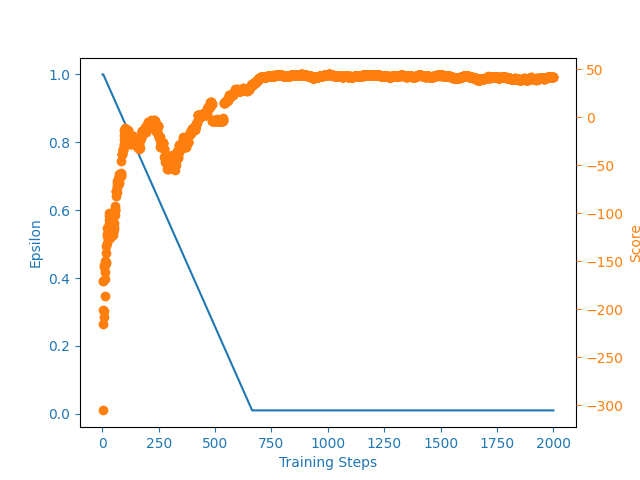
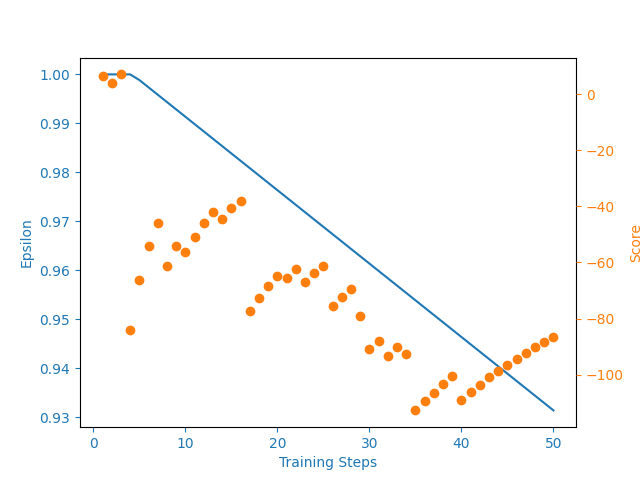
reorganize scripts

diff --git a/rl/main_gov.py b/rl/main_gov.py
@@ -7,11 +7,13 @@ from market_env.constants import FIGURES_PATH
 from market_env.env import DefiEnv, PlfPool, PriceDict, User
 from rl.dqn_gov import Agent
 from rl.rl_env import ProtocolEnv
-from rl.utils import plot_learning_curve
+from run_results.plotting import plot_learning_curve
 
 
 def training(
+    initial_collateral_factor: float = 0.8,
     max_steps: int = 30,
+    gamma: float = 0.99,
     n_games: int = 2_000,
     epsilon: float = 1,
     eps_end: float = 0.01,
@@ -27,14 +29,14 @@ def training(
         initiator=Alice,
         initial_starting_funds=8_000,
         asset_name="tkn",
-        collateral_factor=0.8,
+        collateral_factor=initial_collateral_factor,
     )
 
     env = ProtocolEnv(defi_env)
 
     # initialize agent
     agent = Agent(
-        gamma=0.99,
+        gamma=gamma,
         epsilon=epsilon,
         batch_size=bath_size,
         n_actions=env.action_space.n,
@@ -67,20 +69,18 @@ def training(
         avg_score = np.mean(scores[-30:])
         if i % 10 == 0:
             logging.info(
-                f"logging.debug {i} score {score:.2f} average score {avg_score:.2f} epsilon {agent.epsilon:.2f} collateral factor {next(iter(defi_env.plf_pools.values())).collateral_factor:.2f}"
+                f"{i} score {score:.2f} average score {avg_score:.2f} epsilon {agent.epsilon:.2f} collateral factor {next(iter(defi_env.plf_pools.values())).collateral_factor:.2f}"
             )
         collateral_factors.append(
             next(iter(defi_env.plf_pools.values())).collateral_factor
         )
     return scores, eps_history, collateral_factors
 
-    # torch.save(agent.q_eval.state_dict(), "models/dqn_gov.pth")
-
 
 if __name__ == "__main__":
     # show logging level at info
     logging.basicConfig(level=logging.INFO)
-    N_GAMES = 2_000
+    N_GAMES = 50
     scores, eps_history, collateral_factors = training(n_games=N_GAMES)
     x = [i + 1 for i in range(N_GAMES)]
     filename = path.join(FIGURES_PATH, "defi.png")

diff --git a/rl/utils.py b/rl/utils.py
@@ -1,52 +1,8 @@
 import collections
+
 import cv2
-import numpy as np
-import matplotlib.pyplot as plt
 import gym
-
-
-def plotLearning(scores, filename, x=None, window=5):
-    # for policy gradient algorithms
-    N = len(scores)
-    running_avg = np.empty(N)
-    for t in range(N):
-        running_avg[t] = np.mean(scores[max(0, t - window) : (t + 1)])
-    if x is None:
-        x = [i + 1 for i in range(N)]
-    plt.ylabel("Score")
-    plt.xlabel("Game")
-    plt.plot(x, running_avg)
-    plt.savefig(filename)
-
-
-def plot_learning_curve(x, scores, epsilons, filename, lines=None):
-    fig = plt.figure()
-    ax = fig.add_subplot(111, label="1")
-    ax2 = fig.add_subplot(111, label="2", frame_on=False)
-
-    ax.plot(x, epsilons, color="C0")
-    ax.set_xlabel("Training Steps", color="C0")
-    ax.set_ylabel("Epsilon", color="C0")
-    ax.tick_params(axis="x", colors="C0")
-    ax.tick_params(axis="y", colors="C0")
-
-    N = len(scores)
-    running_avg = np.empty(N)
-    for t in range(N):
-        running_avg[t] = np.mean(scores[max(0, t - 50) : (t + 1)])
-
-    ax2.scatter(x, running_avg, color="C1")
-    ax2.axes.get_xaxis().set_visible(False)
-    ax2.yaxis.tick_right()
-    ax2.set_ylabel("Score", color="C1")
-    ax2.yaxis.set_label_position("right")
-    ax2.tick_params(axis="y", colors="C1")
-
-    if lines is not None:
-        for line in lines:
-            plt.axvline(x=line)
-
-    plt.savefig(filename)
+import numpy as np
 
 
 class RepeatActionAndMaxFrame(gym.Wrapper):

diff --git a/run_results/plotting.py b/run_results/plotting.py
@@ -1,0 +1,50 @@
+"""
+Plotting results from training
+"""
+
+import numpy as np
+import matplotlib.pyplot as plt
+
+
+def plotLearning(scores, filename: str, x=None, window=5):
+    # for policy gradient algorithms
+    N = len(scores)
+    running_avg = np.empty(N)
+    for t in range(N):
+        running_avg[t] = np.mean(scores[max(0, t - window) : (t + 1)])
+    if x is None:
+        x = [i + 1 for i in range(N)]
+    plt.ylabel("Score")
+    plt.xlabel("Game")
+    plt.plot(x, running_avg)
+    plt.savefig(filename)
+
+
+def plot_learning_curve(x, scores, epsilons, filename, lines=None):
+    fig = plt.figure()
+    ax = fig.add_subplot(111, label="1")
+    ax2 = fig.add_subplot(111, label="2", frame_on=False)
+
+    ax.plot(x, epsilons, color="C0")
+    ax.set_xlabel("Training Steps", color="C0")
+    ax.set_ylabel("Epsilon", color="C0")
+    ax.tick_params(axis="x", colors="C0")
+    ax.tick_params(axis="y", colors="C0")
+
+    N = len(scores)
+    running_avg = np.empty(N)
+    for t in range(N):
+        running_avg[t] = np.mean(scores[max(0, t - 50) : (t + 1)])
+
+    ax2.scatter(x, running_avg, color="C1")
+    ax2.axes.get_xaxis().set_visible(False)
+    ax2.yaxis.tick_right()
+    ax2.set_ylabel("Score", color="C1")
+    ax2.yaxis.set_label_position("right")
+    ax2.tick_params(axis="y", colors="C1")
+
+    if lines is not None:
+        for line in lines:
+            plt.axvline(x=line)
+
+    plt.savefig(filename)

diff --git a/run_results/running.py b/run_results/running.py
@@ -1,0 +1,29 @@
+"""
+Training defi environment with deep reinforcement learning and plot results
+"""
+
+from matplotlib import pyplot as plt
+from os import path
+import logging
+from market_env.constants import FIGURES_PATH
+from market_env.env import DefiEnv, PlfPool, PriceDict, User
+from rl.dqn_gov import Agent
+from rl.main_gov import training
+from rl.rl_env import ProtocolEnv
+from run_results.plotting import plot_learning_curve
+
+
+def plot_training_results(n_games_values: list[int] = [1_000, 2_000, 5_000]):
+    for n_game in n_games_values:
+        scores, eps_history, collateral_factors = training(n_games=n_game)
+        x = [i + 1 for i in range(n_game)]
+        filename = path.join(FIGURES_PATH, f"defi-{n_game}.png")
+        plot_learning_curve(x, scores, eps_history, filename)
+        plt.clf()
+        plt.plot(x, collateral_factors)
+        plt.savefig(path.join(FIGURES_PATH, f"collateral_factors-{n_game}.png"))
+
+
+if __name__ == "__main__":
+    logging.basicConfig(level=logging.INFO)
+    plot_training_results()

diff --git a/rl/test_env.py b/rl/test_env.py
@@ -1,11 +1,8 @@
-import gym
-from dqn_gov import Agent
-from utils import plot_learning_curve
-import numpy as np
-from test_market import TestMarket
-from rl_env import ProtocolEnv
-from market_env.env import DefiEnv, PlfPool, PriceDict, User
 import random
+
+from market_env.env import DefiEnv, PlfPool, PriceDict, User
+from rl.rl_env import ProtocolEnv
+from rl.test_market import TestMarket
 
 
 def test_testmarket():
@@ -76,6 +73,6 @@ def test_env2():
 
 
 if __name__ == "__main__":
-    # test_testmarket()
-    # test_env1()
+    test_testmarket()
+    test_env1()
     test_env2()

diff --git a/market_env/env.py b/market_env/env.py
@@ -10,8 +10,6 @@ import numpy as np
 from market_env.constants import DEBT_TOKEN_PREFIX, INTEREST_TOKEN_PREFIX
 from market_env.utils import PriceDict
 
-# set logging level to debug
-
 
 class DefiEnv:
     def __init__(

diff --git a/rl/dqn_gov.py b/rl/dqn_gov.py
@@ -42,7 +42,7 @@ class Agent:
         input_dims,
         batch_size,
         n_actions,
-        max_mem_size=100000,
+        max_mem_size=100_000,
         eps_end=0.1,
         eps_dec=5e-5,
     ):
